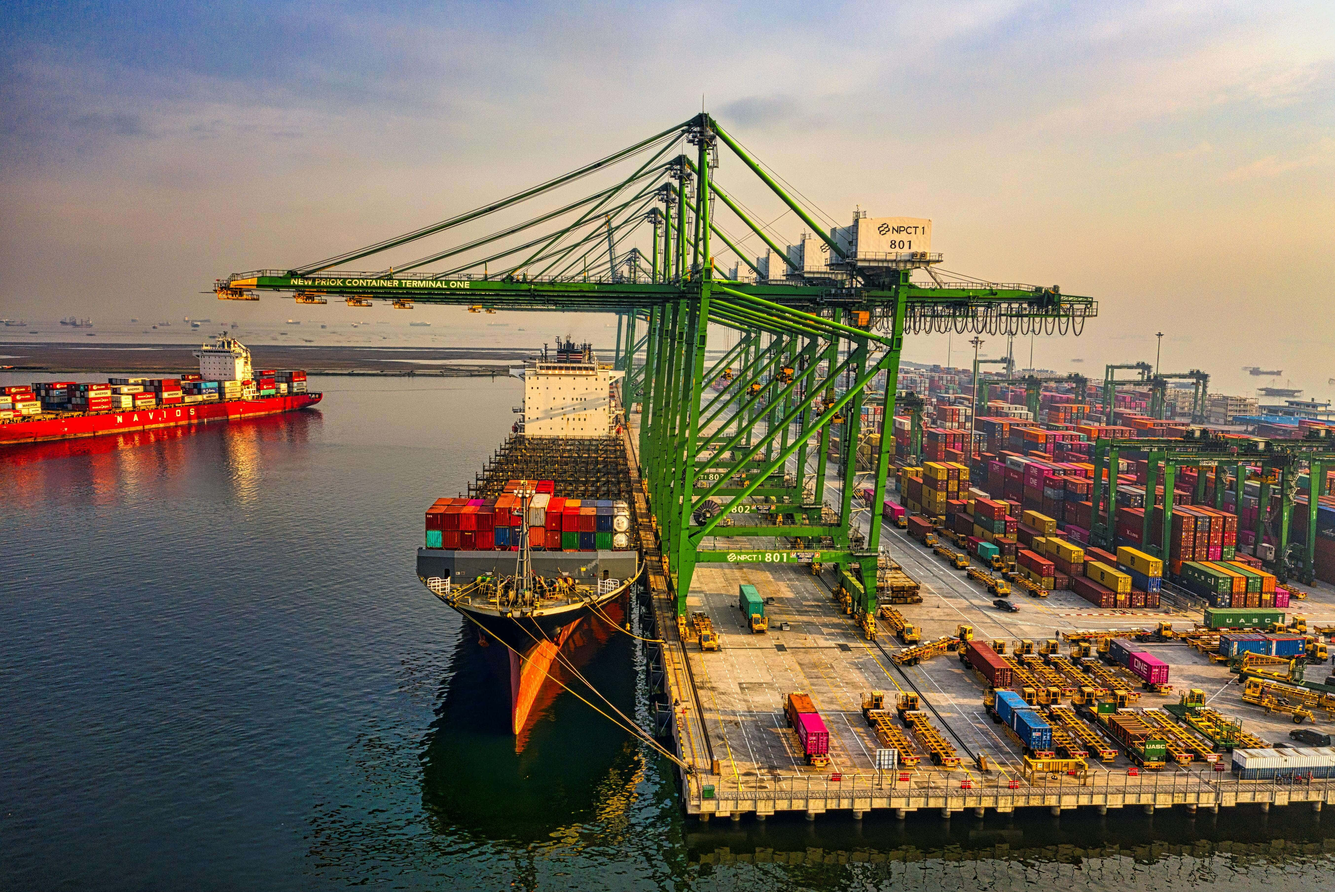
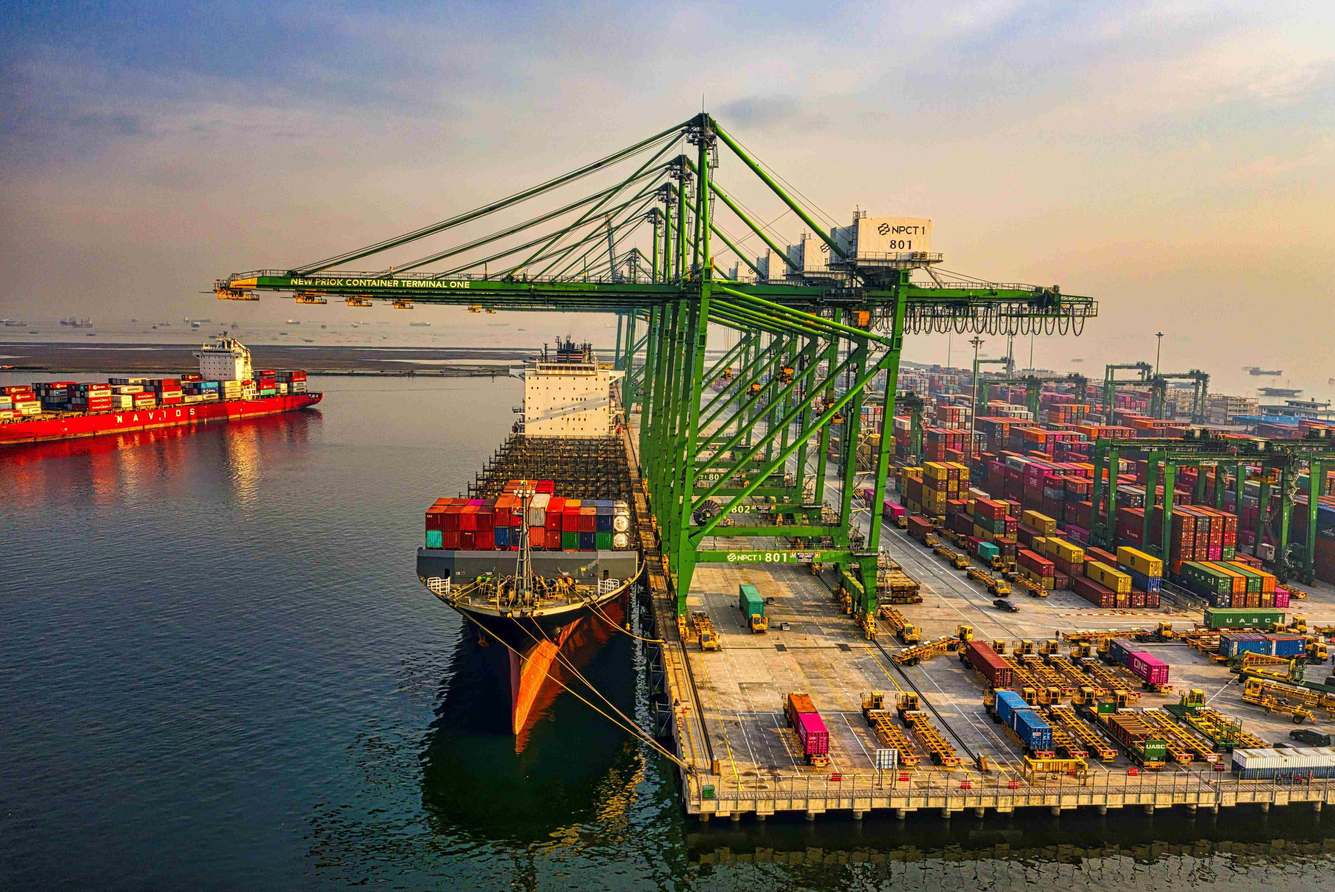
更新全部 CSS 樣式

diff --git a/index.html b/index.html
@@ -18,7 +18,7 @@
   </header>
 
   <div class="hero">
-    <img src="images/hero-desktop-1.png" id="hero-img">
+    <img src="images/hero-desktop-1.jpg" id="hero-img">
     <button class="carousel-arrows carousel-left" onclick="moveHero(-1)">‹</button>
     <button class="carousel-arrows carousel-right" onclick="moveHero(1)">›</button>
   </div>
@@ -27,7 +27,7 @@
     <div class="section" id="about">
       <div class="about-box">
         <div class="about-img">
-          <img src="images/about-us.png" alt="關於我們">
+          <img src="images/about-us.jpg" alt="關於我們">
         </div>
         <div class="about-text">
           <h2>關於我們 <span>About Us</span></h2>

diff --git a/css/contact.css b/css/contact.css
@@ -45,7 +45,7 @@ main::before {
 main {
   flex: 1;
   position: relative;
-  background-image: url('../images/bg-contact.png');
+  background-image: url('../images/bg-contact.jpg');
   background-size: cover;
   background-repeat: repeat-y;
   background-position: center top;

diff --git a/products.html b/products.html
@@ -21,7 +21,7 @@
 
 <!-- ✅ 商品主視覺 -->
 <div class="hero">
-  <img src="images/products-banner.png" alt="商品總覽主視覺">
+  <img src="images/products-banner.jpg" alt="商品總覽主視覺">
 </div>
 
 <!-- ✅ 商品分類主區 -->

diff --git a/contact.html b/contact.html
@@ -20,7 +20,7 @@
 
   <!-- 主視覺區塊 -->
   <div class="hero">
-    <img src="images/contact-banner.png" alt="聯絡我們主視覺">
+    <img src="images/contact-banner.jpg" alt="聯絡我們主視覺">
   </div>
 
   <!-- 主內容區塊 -->

diff --git a/brands.html b/brands.html
@@ -20,7 +20,7 @@
 
 <!-- ✅ 品牌總覽主視覺 -->
 <div class="hero">
-  <img src="images/brand-banner.png" alt="品牌總覽主視覺">
+  <img src="images/brand-banner.jpg" alt="品牌總覽主視覺">
 </div>
 
 <!-- ✅ 主內容 -->

diff --git a/pasta.html b/pasta.html
@@ -21,7 +21,7 @@
 
 <!-- ✅ 主視覺 -->
 <div class="hero">
-  <img src="images/pasta-banner.png" alt="義大利麵主視覺" />
+  <img src="images/pasta-banner.jpg" alt="義大利麵主視覺" />
 </div>
 
 <!-- ✅ 分類導覽 -->

diff --git a/canned.html b/canned.html
@@ -19,7 +19,7 @@
 </header>
 
 <div class="hero">
-  <img src="images/canned-banner.png" alt="罐頭食品主視覺" />
+  <img src="images/canned-banner.jpg" alt="罐頭食品主視覺" />
 </div>
 
 <div class="category-links">

diff --git a/about.html b/about.html
@@ -32,7 +32,7 @@
   </header>
 
 <div class="hero">
-  <img src="images/about-banner.png" alt="關於日銓主視覺">
+  <img src="images/about-banner.jpg" alt="關於日銓主視覺">
 </div>
 
 <main class="about-wrapper">

diff --git a/seasoning.html b/seasoning.html
@@ -19,7 +19,7 @@
 </header>
 
 <div class="hero">
-  <img src="images/seasong-banner.png" alt="調味料主視覺" />
+  <img src="images/seasong-banner.jpg" alt="調味料主視覺" />
 </div>
 
 <div class="category-links">

diff --git a/baking.html b/baking.html
@@ -19,7 +19,7 @@
 </header>
 
 <div class="hero">
-  <img src="images/baking-banner.png" alt="烘焙主視覺" />
+  <img src="images/baking-banner.jpg" alt="烘焙主視覺" />
 </div>
 
 <div class="category-links">

diff --git a/nuts.html b/nuts.html
@@ -19,7 +19,7 @@
 </header>
 
 <div class="hero">
-  <img src="images/nuts-banner.png" alt="堅果主視覺" />
+  <img src="images/nuts-banner.jpg" alt="堅果主視覺" />
 </div>
 
 <div class="category-links">
